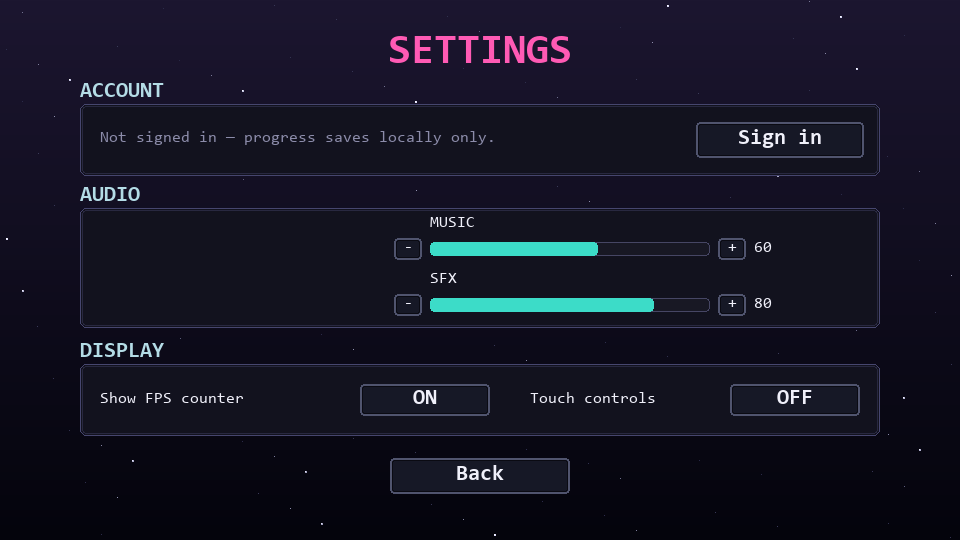
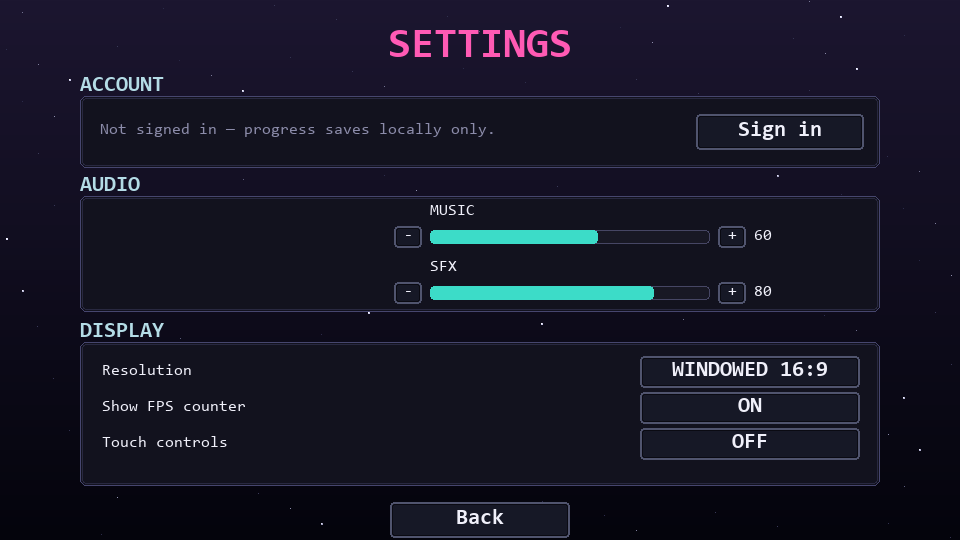
Display mode setting: Fullscreen vs Windowed 16:9
- Settings.display_mode persisted in save.dat
- Engine.set_display_mode + toggle_fullscreen (F11 shortcut)
- BootState applies saved mode on launch
- DISPLAY panel: 3 stacked rows (Resolution / FPS / Touch)
- Fullscreen uses pygame.SCALED so all game coords stay 960x540

diff --git a/ui/settings_state.py b/ui/settings_state.py
@@ -14,18 +14,19 @@ from ui.widgets import Button, Slider, draw_panel, draw_starfield
 
 
 # Vertical anchors for the page — change ONE place, layout reflows.
-PAGE_TITLE_Y = 30
-SECT_ACCOUNT_Y = 80
-SECT_AUDIO_Y = 184
-SECT_DISPLAY_Y = 340
-BACK_Y = 458
+PAGE_TITLE_Y = 24
+SECT_ACCOUNT_Y = 74
+SECT_AUDIO_Y = 174
+SECT_DISPLAY_Y = 320
+BACK_Y = 502
 
 PANEL_X = 80
 PANEL_W = 800
 # Distance from a section header's top to the panel start.
-HEADER_TO_PANEL = 24
-# Audio panel only needs to fit 2 sliders now (was 3).
-AUDIO_PANEL_H = 120
+HEADER_TO_PANEL = 22
+# Panel heights tuned to fit content + breathing room.
+AUDIO_PANEL_H = 116
+DISPLAY_PANEL_H = 144  # holds 3 toggle rows
 
 
 class SettingsState(State):
@@ -74,17 +75,26 @@ class SettingsState(State):
         )
         self.sliders = [s_music, s_sfx]
 
-        # --- Display toggles (side-by-side) ----------------------------
+        # --- Display: 3 stacked rows -----------------------------------
+        # row1 = resolution mode, row2 = FPS, row3 = touch.
         disp_top = SECT_DISPLAY_Y + HEADER_TO_PANEL
-        # One row inside the panel; left half = FPS, right half = mobile.
-        col_h_center = disp_top + 36
+        row_y0 = disp_top + 14
+        row_h = 36
+        # Buttons sit right-aligned inside the panel.
+        btn_w = 220
+        btn_x = PANEL_X + PANEL_W - 20 - btn_w
+        self.mode_btn = Button(
+            pygame.Rect(btn_x, row_y0, btn_w, 32),
+            self._mode_label(),
+            on_click=self._toggle_mode,
+        )
         self.fps_btn = Button(
-            pygame.Rect(PANEL_X + 280, col_h_center - 16, 130, 32),
+            pygame.Rect(btn_x, row_y0 + row_h, btn_w, 32),
             self._fps_label(),
             on_click=self._toggle_fps,
         )
         self.mobile_btn = Button(
-            pygame.Rect(PANEL_X + PANEL_W - 150, col_h_center - 16, 130, 32),
+            pygame.Rect(btn_x, row_y0 + row_h * 2, btn_w, 32),
             self._mobile_label(),
             on_click=self._toggle_mobile,
         )
@@ -104,6 +114,10 @@ class SettingsState(State):
     def _mobile_label(self) -> str:
         return "ON" if self.settings.get("show_mobile_controls", False) else "OFF"
 
+    def _mode_label(self) -> str:
+        m = self.settings.get("display_mode", "windowed")
+        return "FULLSCREEN" if m == "fullscreen" else "WINDOWED 16:9"
+
     def _toggle_fps(self):
         self._set_setting("show_fps", not self.settings.get("show_fps", True))
         self.fps_btn.text = self._fps_label()
@@ -112,6 +126,13 @@ class SettingsState(State):
         self._set_setting("show_mobile_controls",
                           not self.settings.get("show_mobile_controls", False))
         self.mobile_btn.text = self._mobile_label()
+
+    def _toggle_mode(self):
+        cur = self.settings.get("display_mode", "windowed")
+        new = "fullscreen" if cur == "windowed" else "windowed"
+        self._set_setting("display_mode", new)
+        self.engine.set_display_mode(new)
+        self.mode_btn.text = self._mode_label()
 
     def _login_clicked(self):
         if self.engine.save_data.get("username"):
@@ -144,6 +165,7 @@ class SettingsState(State):
             self._back()
             return
         self.login_btn.handle_event(event)
+        self.mode_btn.handle_event(event)
         self.fps_btn.handle_event(event)
         self.mobile_btn.handle_event(event)
         self.back_btn.handle_event(event)
@@ -197,26 +219,19 @@ class SettingsState(State):
         # ---- DISPLAY section ----
         self._draw_section_header(surface, "DISPLAY", SECT_DISPLAY_Y)
         disp_top = SECT_DISPLAY_Y + HEADER_TO_PANEL
-        disp_rect = pygame.Rect(PANEL_X, disp_top, PANEL_W, 72)
+        disp_rect = pygame.Rect(PANEL_X, disp_top, PANEL_W, DISPLAY_PANEL_H)
         draw_panel(surface, disp_rect)
 
-        # Inline labels for the two toggles; each sits to the LEFT of its
-        # button and shares the same vertical centre so they read as a row.
-        lbl_fps = engine.font_sm.render(
-            "Show FPS counter", True, config.COLOR_TEXT,
+        rows = (
+            ("Resolution",        self.mode_btn),
+            ("Show FPS counter",  self.fps_btn),
+            ("Touch controls",    self.mobile_btn),
         )
-        surface.blit(lbl_fps,
-                     (disp_rect.x + 20,
-                      self.fps_btn.rect.centery - lbl_fps.get_height() // 2))
-        lbl_touch = engine.font_sm.render(
-            "Touch controls", True, config.COLOR_TEXT,
-        )
-        # Position the touch label so it sits cleanly left of its button.
-        surface.blit(lbl_touch,
-                     (self.fps_btn.rect.right + 40,
-                      self.mobile_btn.rect.centery - lbl_touch.get_height() // 2))
-        self.fps_btn.draw(surface, engine.font_md)
-        self.mobile_btn.draw(surface, engine.font_md)
+        for label_text, btn in rows:
+            lbl = engine.font_sm.render(label_text, True, config.COLOR_TEXT)
+            surface.blit(lbl, (disp_rect.x + 22,
+                               btn.rect.centery - lbl.get_height() // 2))
+            btn.draw(surface, engine.font_md)
 
         # Back button.
         self.back_btn.draw(surface, engine.font_md)

diff --git a/core/engine.py b/core/engine.py
@@ -18,21 +18,16 @@ from ui.branding import make_logo
 class Engine:
     def __init__(self):
         pygame.init()
-        # Mixer must be init'd before any Sound() call. Doing it here means
-        # state/code paths that play audio at construction time also work.
         audio.init()
-        # Set the window icon *before* creating the display so the OS uses
-        # our logo from the very first frame.
         pygame.display.set_caption(config.TITLE)
         try:
             pygame.display.set_icon(make_logo(32))
         except Exception:
-            # If icon creation fails (very old pygame, missing SDL2 image
-            # support, etc.) we'd rather keep the default than crash.
             pass
-        self.screen = pygame.display.set_mode(
-            (config.SCREEN_WIDTH, config.SCREEN_HEIGHT)
-        )
+        # Display starts windowed; BootState reads the saved setting and
+        # may switch to fullscreen once save.dat is loaded.
+        self.display_mode = "windowed"
+        self.screen = self._make_display(self.display_mode)
         self.clock = pygame.time.Clock()
         self.running = True
 
@@ -60,6 +55,42 @@ class Engine:
     def quit(self) -> None:
         self.running = False
 
+    # ----- Display mode --------------------------------------------------
+    def _make_display(self, mode: str):
+        """Create the display surface for the requested mode.
+
+        Both modes use a fixed 960x540 logical resolution; fullscreen lets
+        pygame's SCALED flag upscale to the native monitor resolution while
+        keeping coordinates inside the game unchanged.
+        """
+        size = (config.SCREEN_WIDTH, config.SCREEN_HEIGHT)
+        if mode == "fullscreen":
+            try:
+                return pygame.display.set_mode(
+                    size, pygame.FULLSCREEN | pygame.SCALED
+                )
+            except pygame.error:
+                # Some SDL backends (e.g. the dummy driver used in CI) don't
+                # support SCALED — fall back to a normal window.
+                return pygame.display.set_mode(size)
+        return pygame.display.set_mode(size)
+
+    def set_display_mode(self, mode: str) -> None:
+        if mode not in ("windowed", "fullscreen"):
+            return
+        if mode == self.display_mode:
+            return
+        self.display_mode = mode
+        self.screen = self._make_display(mode)
+
+    def toggle_fullscreen(self) -> None:
+        new = "fullscreen" if self.display_mode == "windowed" else "windowed"
+        self.set_display_mode(new)
+        # Persist so the choice survives the next launch.
+        if self.save_data:
+            save_mgr.get_settings(self.save_data)["display_mode"] = new
+            save_mgr.save(self.save_data)
+
     def run(self, initial_state) -> None:
         self.fsm.change_to(initial_state)
 
@@ -81,6 +112,11 @@ class Engine:
             for event in pygame.event.get():
                 if event.type == pygame.QUIT:
                     self.running = False
+                elif (event.type == pygame.KEYDOWN
+                      and event.key == pygame.K_F11):
+                    # F11 toggles fullscreen at engine level — works in
+                    # any state, doesn't need each State to wire it.
+                    self.toggle_fullscreen()
                 else:
                     self.fsm.handle_event(event)
 

diff --git a/ui/menus.py b/ui/menus.py
@@ -36,7 +36,10 @@ class BootState(State):
         # Apply saved audio volumes now that save_data is loaded — the
         # rest of the game can play sounds at the user's chosen level
         # from the very first frame.
-        audio.apply_settings(save_mgr.get_settings(engine.save_data))
+        settings = save_mgr.get_settings(engine.save_data)
+        audio.apply_settings(settings)
+        # Apply the saved display mode (fullscreen / windowed).
+        engine.set_display_mode(settings.get("display_mode", "windowed"))
         # If a user is logged in, pull the latest progress from DB so the
         # local cache reflects whatever happened on another device.
         if engine.save_data.get("user_id"):

diff --git a/systems/save_mgr.py b/systems/save_mgr.py
@@ -21,6 +21,9 @@ DEFAULT_SETTINGS: dict[str, Any] = {
     "sfx_volume": 80,
     "show_fps": True,
     "show_mobile_controls": False,
+    # "windowed" → 960x540 window. "fullscreen" → native resolution with
+    # pygame's SCALED flag so all game logic still runs in 960x540 space.
+    "display_mode": "windowed",
 }
 
 DEFAULT_DATA: dict[str, Any] = {